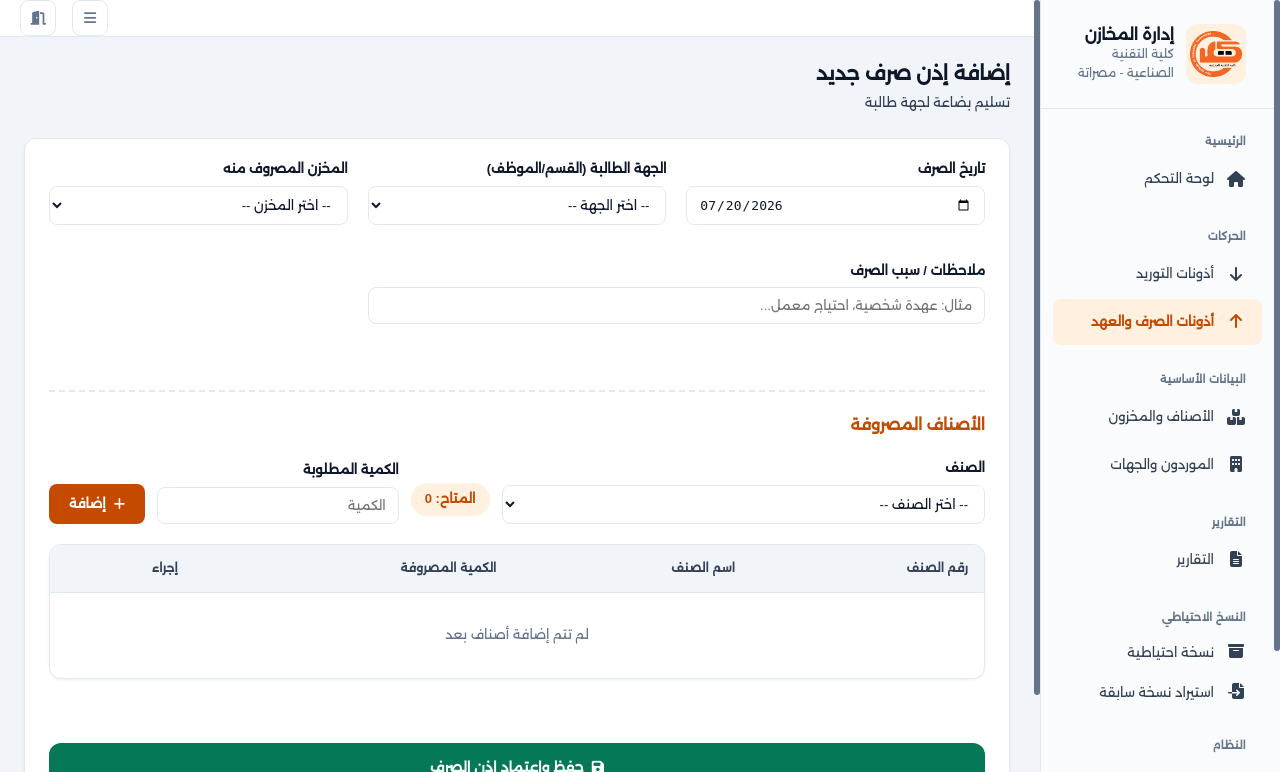
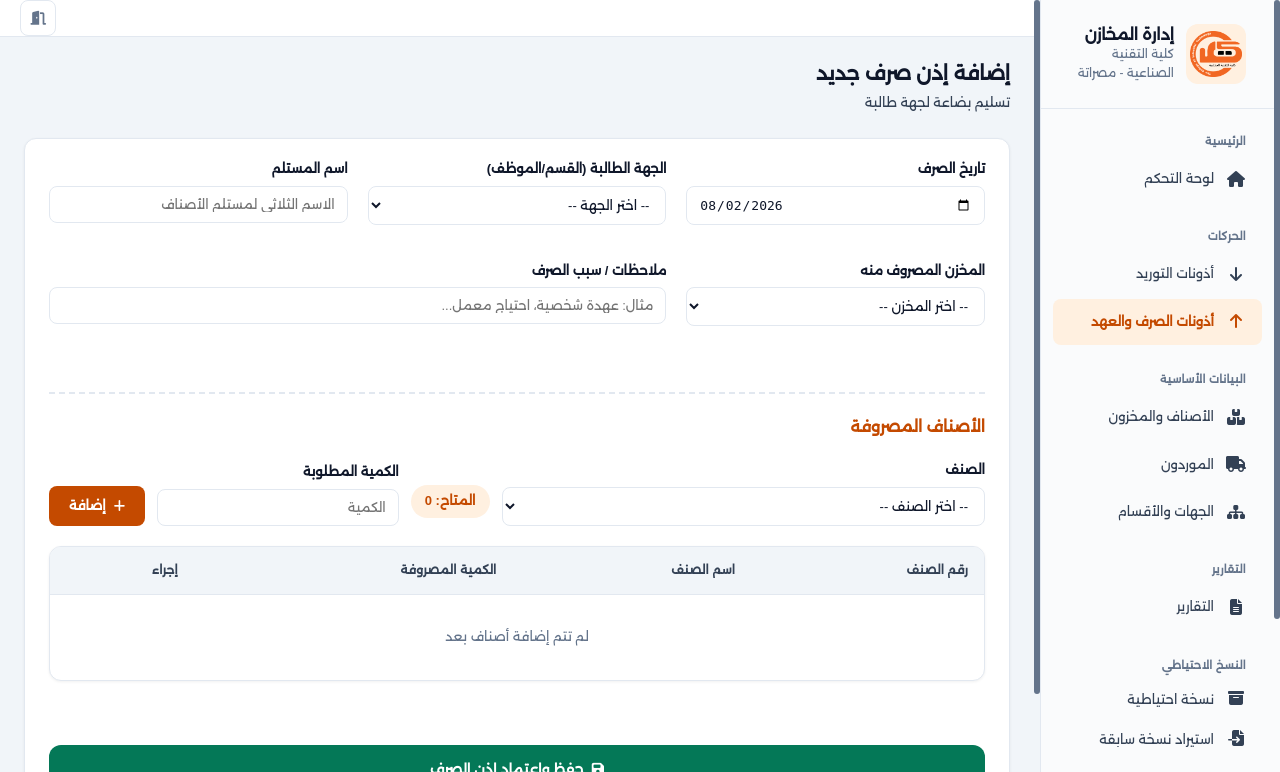
docs(readme): document v1.2.0 features, role-based pages, and refresh all screenshots
- Add "What's new in v1.2.0" section: entity hierarchy, required dispense
  recipient, suppliers/entities page split, two-role model.
- Add per-role page-access matrix with Admin vs Store_Keeper sidebar
  comparison screenshots; note Viewer role removal.
- Split the features section into separate Suppliers and Departments
  (hierarchy) sections; document recipient name and hierarchy path on
  printed dispense receipts.
- Regenerate all page and report screenshots; add suppliers.png and
  dashboard-storekeeper.png (new --screenshot-role capture option).
- Refresh capture mock data for v1.2.0: nested departments with
  depth/path, recipient fields, Viewer user removed.
- Fix capture scripts producing stale frames under xvfb (invisible
  sidebar): disable animations, show the window, force a final repaint
  before capturePage().

Claude-Session: https://claude.ai/code/session_01MmBoJVr8mtJNnGAh2zEpvP

diff --git a/scripts/screenshot-preload.js b/scripts/screenshot-preload.js
@@ -23,9 +23,12 @@ const SUPPLIERS = [
     { entity_id: 2, code: 'SUP-002', entity_name: 'مكتبة مصراتة الحديثة', entity_type: 'Supplier', phone: '0911111111', address: 'مصراتة - وسط المدينة' }
 ];
 
+// الجهات الداخلية مرتّبة هرمياً (depth/path كما تُرجعها CTE في main.js).
 const REQUESTERS = [
-    { entity_id: 3, code: 'ENT-001', entity_name: 'قسم تقنية المعلومات', entity_type: 'Department', phone: '', address: 'المبنى الإداري' },
-    { entity_id: 4, code: 'ENT-002', entity_name: 'مكتب الشؤون الإدارية', entity_type: 'Department', phone: '', address: 'الإدارة' }
+    { entity_id: 3, code: 'ENT-001', entity_name: 'الإدارة العامة', entity_type: 'Department', phone: '', address: 'المبنى الإداري', parent_id: null, depth: 0, path: 'الإدارة العامة' },
+    { entity_id: 4, code: 'ENT-002', entity_name: 'قسم تقنية المعلومات', entity_type: 'Department', phone: '', address: 'المبنى الإداري', parent_id: 3, depth: 1, path: 'الإدارة العامة ← قسم تقنية المعلومات' },
+    { entity_id: 5, code: 'ENT-003', entity_name: 'شعبة الصيانة والدعم', entity_type: 'Department', phone: '', address: 'المبنى الإداري', parent_id: 4, depth: 2, path: 'الإدارة العامة ← قسم تقنية المعلومات ← شعبة الصيانة والدعم' },
+    { entity_id: 6, code: 'ENT-004', entity_name: 'مكتب الشؤون الإدارية', entity_type: 'Department', phone: '', address: 'الإدارة', parent_id: 3, depth: 1, path: 'الإدارة العامة ← مكتب الشؤون الإدارية' }
 ];
 
 const ENTITIES = [...SUPPLIERS, ...REQUESTERS];
@@ -44,8 +47,7 @@ const TRANSACTIONS = [
 
 const USERS = [
     { user_id: 1, full_name: 'admin', role: 'Admin', is_active: 1, created_at: '2026-07-01' },
-    { user_id: 2, full_name: 'أمين المخزن', role: 'Store_Keeper', is_active: 1, created_at: '2026-07-02' },
-    { user_id: 3, full_name: 'مستعرض', role: 'Viewer', is_active: 1, created_at: '2026-07-03' }
+    { user_id: 2, full_name: 'أمين المخزن', role: 'Store_Keeper', is_active: 1, created_at: '2026-07-02' }
 ];
 
 const BACKUPS = [
@@ -53,13 +55,17 @@ const BACKUPS = [
     { commitId: 'def5678', date: '2026-07-11 21:00', message: 'قبل إضافة مستخدمين' }
 ];
 
-// Fake session so every page (except login) thinks we are logged in as Admin.
+// Fake session so every page (except login) thinks we are logged in.
+// Default role is Admin; capture-screenshots.js can override it per page via
+// --screenshot-role=Store_Keeper to show the reduced sidebar.
+const roleArg = process.argv.find(a => a.startsWith('--screenshot-role='));
+const sessionRole = roleArg ? roleArg.split('=')[1] : 'Admin';
 try {
     localStorage.setItem('userSession', JSON.stringify({
-        userId: 1,
-        username: 'admin',
-        fullName: 'admin',
-        role: 'Admin'
+        userId: sessionRole === 'Admin' ? 1 : 2,
+        username: sessionRole === 'Admin' ? 'admin' : 'storekeeper',
+        fullName: sessionRole === 'Admin' ? 'admin' : 'أمين المخزن',
+        role: sessionRole
     }));
 } catch (e) {
     // localStorage may not be available in some contexts; ignore.
@@ -124,6 +130,8 @@ contextBridge.exposeInMainWorld('api', {
             transaction_id: 3,
             date: '2026-07-08',
             requester: 'قسم تقنية المعلومات',
+            requester_path: 'الإدارة العامة ← قسم تقنية المعلومات',
+            recipient: 'محمد عبد السلام',
             store: 'المخزن الرئيسي',
             reason: 'احتياجات المعمل',
             items: [

diff --git a/scripts/report-capture-bridge.html b/scripts/report-capture-bridge.html
@@ -30,9 +30,12 @@
             { entity_id: 2, code: 'SUP-002', entity_name: 'مكتبة مصراتة الحديثة', entity_type: 'Supplier', phone: '0911111111', address: 'مصراتة - وسط المدينة' }
         ];
 
+        // الجهات الداخلية مرتّبة هرمياً (depth/path كما تُرجعها CTE في main.js).
         const REQUESTERS = [
-            { entity_id: 3, code: 'ENT-001', entity_name: 'قسم تقنية المعلومات', entity_type: 'Department', phone: '', address: 'المبنى الإداري' },
-            { entity_id: 4, code: 'ENT-002', entity_name: 'مكتب الشؤون الإدارية', entity_type: 'Department', phone: '', address: 'الإدارة' }
+            { entity_id: 3, code: 'ENT-001', entity_name: 'الإدارة العامة', entity_type: 'Department', phone: '', address: 'المبنى الإداري', parent_id: null, depth: 0, path: 'الإدارة العامة' },
+            { entity_id: 4, code: 'ENT-002', entity_name: 'قسم تقنية المعلومات', entity_type: 'Department', phone: '', address: 'المبنى الإداري', parent_id: 3, depth: 1, path: 'الإدارة العامة ← قسم تقنية المعلومات' },
+            { entity_id: 5, code: 'ENT-003', entity_name: 'شعبة الصيانة والدعم', entity_type: 'Department', phone: '', address: 'المبنى الإداري', parent_id: 4, depth: 2, path: 'الإدارة العامة ← قسم تقنية المعلومات ← شعبة الصيانة والدعم' },
+            { entity_id: 6, code: 'ENT-004', entity_name: 'مكتب الشؤون الإدارية', entity_type: 'Department', phone: '', address: 'الإدارة', parent_id: 3, depth: 1, path: 'الإدارة العامة ← مكتب الشؤون الإدارية' }
         ];
 
         const ENTITIES = [...SUPPLIERS, ...REQUESTERS];
@@ -107,6 +110,8 @@
                     transaction_id: 3,
                     date: '2026-07-08',
                     requester: 'قسم تقنية المعلومات',
+                    requester_path: 'الإدارة العامة ← قسم تقنية المعلومات',
+                    recipient: 'محمد عبد السلام',
                     store: 'المخزن الرئيسي',
                     reason: 'احتياجات المعمل',
                     items: [
@@ -121,8 +126,7 @@
 
             getUsers: async () => [
                 { user_id: 1, full_name: 'admin', role: 'Admin', is_active: 1, created_at: '2026-07-01' },
-                { user_id: 2, full_name: 'أمين المخزن', role: 'Store_Keeper', is_active: 1, created_at: '2026-07-02' },
-                { user_id: 3, full_name: 'مستعرض', role: 'Viewer', is_active: 1, created_at: '2026-07-03' }
+                { user_id: 2, full_name: 'أمين المخزن', role: 'Store_Keeper', is_active: 1, created_at: '2026-07-02' }
             ],
             addUser: async () => ({ success: true, message: 'تمت الإضافة' }),
             updateUserRole: async () => ({ success: true, message: 'تم التحديث' }),
@@ -233,7 +237,8 @@
                     call: () => {
                         const r = dispenseReceipt && dispenseReceipt.receipt ? dispenseReceipt.receipt : {};
                         window.printReport.printReceipt({
-                            requester: r.requester,
+                            requester: r.requester_path || r.requester,
+                            recipient: r.recipient,
                             store: r.store,
                             notes: r.reason || r.notes,
                             items: (r.items || []).map(i => ({

diff --git a/scripts/capture-screenshots.js b/scripts/capture-screenshots.js
@@ -6,6 +6,11 @@ const { app, BrowserWindow } = require('electron');
 const fs = require('fs');
 const path = require('path');
 
+// Under xvfb the GPU process can die and capturePage() then misses composited
+// layers (the fixed-position sidebar renders blank). Software rendering is
+// reliable for offscreen captures.
+app.disableHardwareAcceleration();
+
 const ROOT = path.resolve(__dirname, '..');
 const PRELOAD = path.join(__dirname, 'screenshot-preload.js');
 const OUTDIR = path.join(ROOT, 'placeholders');
@@ -20,10 +25,13 @@ const PAGES = [
     { file: 'dispense.html', out: 'dispense.png' },
     { file: 'report.html', out: 'report.png' },
     { file: 'settings.html', out: 'settings.png' },
-    { file: 'users.html', out: 'users.png' }
+    { file: 'users.html', out: 'users.png' },
+    // Same dashboard captured as Store_Keeper: the sidebar loses backup/restore,
+    // user management, and password change — used in the README roles section.
+    { file: 'dashboard.html', out: 'dashboard-storekeeper.png', role: 'Store_Keeper' }
 ];
 
-async function capture(pageFile, outFile) {
+async function capture(pageFile, outFile, role) {
     const isDashboard = pageFile === 'dashboard.html';
     const win = new BrowserWindow({
         width: 1280,
@@ -32,14 +40,28 @@ async function capture(pageFile, outFile) {
         webPreferences: {
             preload: PRELOAD,
             nodeIntegration: false,
-            contextIsolation: true
+            contextIsolation: true,
+            additionalArguments: role ? [`--screenshot-role=${role}`] : []
         }
     });
 
     await win.loadFile(path.join(ROOT, pageFile));
 
-    // Wait for fonts, CSS animations, and data rendering.
+    // Snap entrance animations to their final state so the capture never
+    // freezes mid-fade (e.g. the sidebar at opacity 0).
+    await win.webContents.insertCSS('*, *::before, *::after { animation: none !important; transition: none !important; }');
+
+    // Hidden windows stop producing frames, so capturePage() can return a
+    // stale early paint. Show the window (headless under xvfb anyway) so it
+    // keeps repainting while data renders.
+    win.show();
+
+    // Wait for fonts and data rendering.
     await new Promise(resolve => setTimeout(resolve, 2500));
+
+    // Force one final repaint of the finished page before capturing.
+    win.webContents.invalidate();
+    await new Promise(resolve => setTimeout(resolve, 300));
 
     const image = await win.webContents.capturePage();
     const outPath = path.join(OUTDIR, outFile);
@@ -59,7 +81,7 @@ async function main() {
 
     for (const page of PAGES) {
         try {
-            await capture(page.file, page.out);
+            await capture(page.file, page.out, page.role);
         } catch (error) {
             console.error(`Failed to capture ${page.file}:`, error.message);
         }

diff --git a/scripts/capture-report-previews.js b/scripts/capture-report-previews.js
@@ -11,6 +11,10 @@ const { app, BrowserWindow, ipcMain } = require('electron');
 const fs = require('fs');
 const path = require('path');
 
+// Under xvfb the GPU process can die and capturePage() then misses composited
+// layers. Software rendering is reliable for offscreen captures.
+app.disableHardwareAcceleration();
+
 const ROOT = path.resolve(__dirname, '..');
 const PRELOAD = path.join(__dirname, 'report-capture-preload.js');
 const BRIDGE = path.join(__dirname, 'report-capture-bridge.html');
@@ -38,6 +42,9 @@ async function captureHtmlToPng(htmlContent, filename, isLandscape) {
 
     await win.loadFile(TEMP_HTML);
     await new Promise(resolve => setTimeout(resolve, 600));
+
+    // Force a layout flush so every layer is painted before capture.
+    await win.webContents.executeJavaScript('document.body.getBoundingClientRect().width');
 
     const image = await win.webContents.capturePage();
     const outPath = path.join(OUTDIR, filename);

diff --git a/README.md b/README.md
@@ -5,6 +5,13 @@
 **الإصدار الحالي:** `v1.2.0`  
 **الترخيص:** MIT
 
+### ما الجديد في v1.2.0
+
+- **هيكل هرمي للجهات**: يمكن الآن تسجيل دائرة ← قسم ← شعبة بأي عمق، مع عرض الشجرة بمسافات بادئة في القوائم والتقارير.
+- **اسم المستلم في إذن الصرف**: حقل إلزامي يُسجَّل مع الإذن ويظهر في المستند المطبوع وفوق سطر توقيع المستلم.
+- **فصل الموردين عن الجهات**: صفحة مستقلة للموردين الخارجيين وأخرى للجهات والأقسام الداخلية.
+- **دوران فقط**: مسؤول وأمين مخزن — دور "المستعرض" أُزيل نهائياً، وكل فحوصات الصلاحيات تُنفَّذ في العملية الرئيسية.
+
 ---
 
 ## 🎯 نظرة عامة على سير العمل
@@ -14,31 +21,52 @@
 ```mermaid
 flowchart TD
     A[شاشة تسجيل الدخول] --> B{تحديد الدور}
-    B -->|مسؤول Admin| C[إدارة المستخدمين<br/>والنسخ الاحتياطي]
-    B -->|أمين مخزن| D[لوحة التحكم]
+    B -->|مسؤول Admin فقط| C[إدارة المستخدمين<br/>النسخ الاحتياطي والاسترجاع<br/>تغيير كلمات المرور]
+    B -->|كلا الدورين| D[لوحة التحكم]
     D --> E[توريد جديد]
-    D --> F[صرف جديد]
+    D --> F[صرف جديد<br/>+ اسم المستلم]
     D --> G[التقارير والطباعة]
     D --> H[الأصناف والمخزون]
-    D --> I[الموردون والجهات]
-    D --> J[الإعدادات والاسترجاع]
+    D --> I[الموردون]
+    D --> J[الجهات والأقسام<br/>هيكل هرمي]
+    D --> L[الإعدادات]
     E --> K[(قاعدة بيانات SQLite)]
     F --> K
     G --> K
     H --> K
     I --> K
-    C --> K
     J --> K
+    C --> K
+    L --> K
 ```
 
 ---
 
 ## 👥 الأدوار وصلاحيات المستخدمين
 
+النظام يعتمد **دورين فقط** (دور "المستعرض Viewer" أُزيل، وأي حساب قديم بهذا الدور يُحوَّل تلقائياً إلى أمين مخزن عند أول تشغيل):
+
 | الدور | الوصف | الصلاحيات الرئيسية |
 | :--- | :--- | :--- |
 | **مسؤول (Admin)** | مدير النظام | كل الصلاحيات: إضافة/تعديل/حذف الأصناف والجهات، إصدار أذونات التوريد والصرف، إدارة المستخدمين (إضافة، تغيير الأدوار، تفعيل/تعطيل، إعادة تعيين كلمات المرور)، إعداد التقارير، النسخ الاحتياطي والاسترجاع. |
 | **أمين مخزن (Store_Keeper)** | المستخدم اليومي للمخزن | إضافة/تعديل/حذف الأصناف والجهات، إصدار أذونات التوريد والصرف، إعداد التقارير. **لا يستطيع** إدارة المستخدمين، ولا إنشاء نسخة احتياطية يدوية أو استرجاعها، ولا تغيير أي كلمة مرور (حتى كلمة مروره الخاصة) — هذه الإجراءات مقصورة على المسؤول. |
+
+### الصفحات الظاهرة لكل دور
+
+| الصفحة / الإجراء | مسؤول | أمين مخزن |
+| :--- | :---: | :---: |
+| لوحة التحكم، الأصناف والمخزون، الموردون، الجهات والأقسام | ✅ | ✅ |
+| أذونات التوريد، أذونات الصرف والعهد، التقارير | ✅ | ✅ |
+| الإعدادات | ✅ | ✅ |
+| المستخدمون (إدارة الحسابات) | ✅ | ❌ لا تظهر |
+| نسخة احتياطية / استيراد نسخة سابقة | ✅ | ❌ لا تظهر |
+| تغيير كلمة المرور | ✅ | ❌ لا تظهر |
+
+القائمة الجانبية تتكيف تلقائياً مع الدور — أمين المخزن لا يرى أقسام النسخ الاحتياطي وإدارة المستخدمين إطلاقاً، والحماية الفعلية مفروضة في العملية الرئيسية وليس بالإخفاء فقط:
+
+| واجهة المسؤول (كل الأقسام) | واجهة أمين المخزن (بدون النسخ الاحتياطي والمستخدمين) |
+| :---: | :---: |
+| <img src="placeholders/dashboard.png" width="400" alt="لوحة التحكم بواجهة المسؤول"> | <img src="placeholders/dashboard-storekeeper.png" width="400" alt="لوحة التحكم بواجهة أمين المخزن"> |
 
 > **ملاحظة أمان:** كل فحوصات الصلاحيات تُنفّذ في العملية الرئيسية (main process) على الخادم المحلي، وليس في الواجهة فقط.
 
@@ -74,14 +102,23 @@ flowchart TD
 
 <p align="center"><img src="placeholders/items.png" width="700" alt="الأصناف والمخزون"></p>
 
-### 4. الموردون والجهات
-- تسجيل الموردين الخارجيين والأقسام/الموظفين الداخليين.
-- البحث بالاسم أو رقم الهاتف.
-- تعديل وحذف منطقي للجهات.
+### 4. الموردون
+- صفحة مستقلة للموردين الخارجيين (الشركات والتجار الذين تُورَّد منهم الأصناف).
+- البحث بالاسم أو رقم الهاتف، مع طباعة دليل الموردين.
+- حذف منطقي يحافظ على سجل التوريدات السابقة.
 
-<p align="center"><img src="placeholders/entities.png" width="700" alt="الموردون والجهات"></p>
+<p align="center"><img src="placeholders/suppliers.png" width="700" alt="إدارة الموردين"></p>
 
-### 5. أذونات التوريد
+### 5. الجهات والأقسام (هيكل هرمي)
+- صفحة مستقلة للجهات الداخلية التي تُصرف لها الأصناف: دوائر، أقسام، شعب، وموظفون.
+- **تداخل غير محدود**: قسم داخل دائرة، وشعبة داخل قسم — بأي عمق (مثال: الإدارة العامة ← قسم تقنية المعلومات ← شعبة الصيانة والدعم).
+- عند إضافة جهة يمكن اختيار "الجهة الأم" من قائمة منسدلة مرتبة هرمياً.
+- الشجرة تظهر بمسافات بادئة في الجدول وفي قائمة الجهة الطالبة بإذن الصرف، مع المسار الكامل عند التمرير فوق الاسم.
+- لا يمكن حذف جهة لا تزال تضم جهات فرعية — تُحذف الفروع أولاً.
+
+<p align="center"><img src="placeholders/entities.png" width="700" alt="الجهات والأقسام"></p>
+
+### 6. أذونات التوريد
 - اختيار المورد، المخزن، وتاريخ التوريد.
 - إضافة عدة أصناف بكميات وأسعار.
 - حفظ الإذن والطباعة مباشرة.
@@ -90,16 +127,17 @@ flowchart TD
 | :---: | :---: |
 | <img src="placeholders/supply.png" width="400" alt="نموذج إذن التوريد"> | <img src="placeholders/reports/report-supply-receipt.png" width="400" alt="إذن توريد مطبوع"> |
 
-### 6. أذونات الصرف
-- اختيار الجهة الطالبة والمخزن.
+### 7. أذونات الصرف
+- اختيار الجهة الطالبة من القائمة الهرمية (قسم، شعبة، أو موظف) والمخزن.
+- **اسم المستلم حقل إلزامي**: يُسجَّل مع الإذن اسم الشخص الذي استلم الأصناف فعلياً، ويُرفض الحفظ بدونه (التحقق في العملية الرئيسية وليس في الواجهة فقط).
 - **التحقق اللحظي من الرصيد**: يمنع صرف كمية أكبر من المتاح.
-- حفظ الإذن والطباعة مباشرة.
+- الإذن المطبوع يعرض **المسار الهرمي الكامل** للجهة الطالبة (مثال: الإدارة العامة ← قسم تقنية المعلومات) و**اسم المستلم** فوق سطر توقيعه.
 
 | نموذج إذن الصرف | إذن الصرف المطبوع |
 | :---: | :---: |
 | <img src="placeholders/dispense.png" width="400" alt="نموذج إذن الصرف"> | <img src="placeholders/reports/report-dispense-receipt.png" width="400" alt="إذن صرف مطبوع"> |
 
-### 7. التقارير والطباعة
+### 8. التقارير والطباعة
 - تسعة أنواع تقارير:
   1. تقرير حالة المخزون
   2. دليل الأصناف الأساسي
@@ -132,17 +170,19 @@ flowchart TD
 | :---: |
 | <img src="placeholders/reports/report-suppliers.png" width="400" alt="دليل الموردين والجهات"> |
 
-### 8. إدارة المستخدمين (للمسؤول فقط)
-- إضافة مستخدم جديد.
+### 9. إدارة المستخدمين (للمسؤول فقط)
+- إضافة مستخدم جديد بدور مسؤول أو أمين مخزن.
 - تغيير دور المستخدم.
 - تفعيل/تعطيل الحساب.
 - إعادة تعيين كلمة المرور.
+- الصفحة لا تظهر في القائمة الجانبية لغير المسؤول، ومحاولة الوصول المباشر تُرفض في العملية الرئيسية.
 
 <p align="center"><img src="placeholders/users.png" width="700" alt="إدارة المستخدمين"></p>
 
-### 9. النسخ الاحتياطي والاسترجاع
+### 10. النسخ الاحتياطي والاسترجاع (للمسؤول فقط)
 - نسخ احتياطي محلي تلقائي على نفس الجهاز.
 - استرجاع أي نسخة سابقة من سجل Git المحلي.
+- النسخ اليدوي والاسترجاع يتطلبان إعادة إدخال كلمة مرور المسؤول.
 - المزامنة السحابية معطّلة في هذا الإصدار.
 
 <p align="center"><img src="placeholders/settings.png" width="700" alt="الإعدادات والنسخ الاحتياطي"></p>
